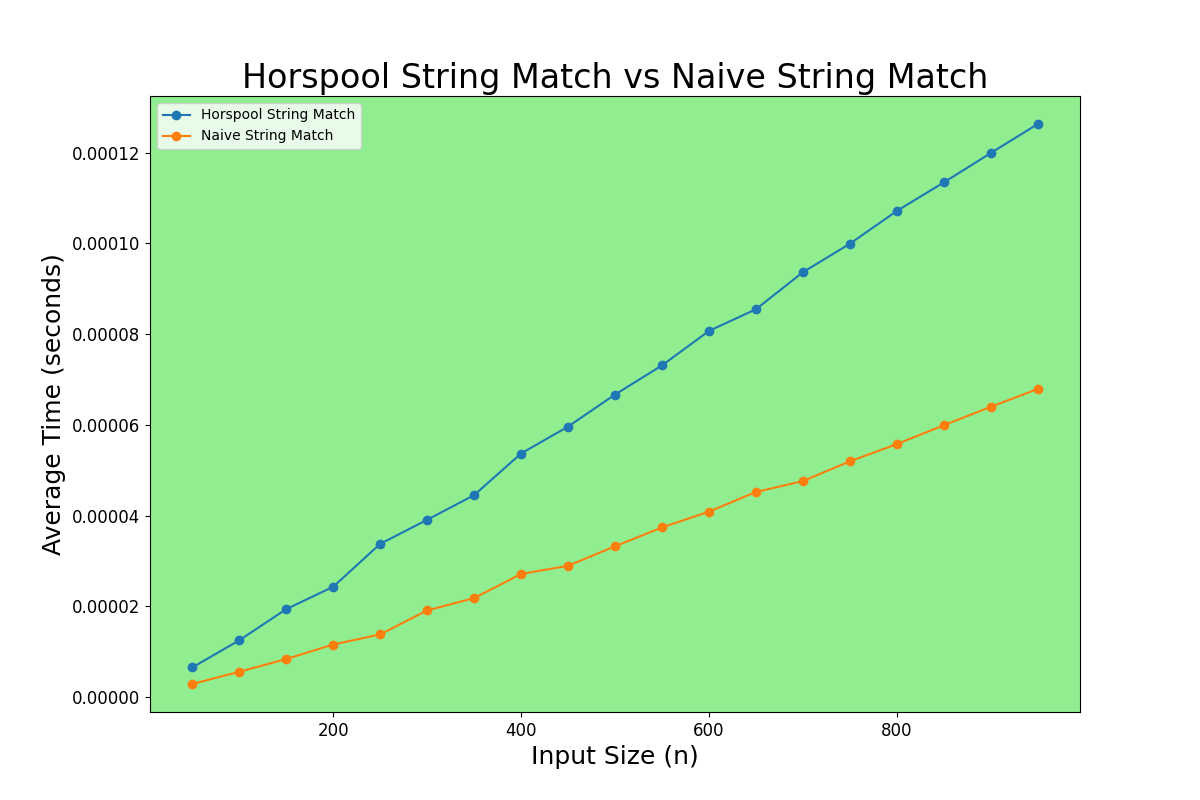
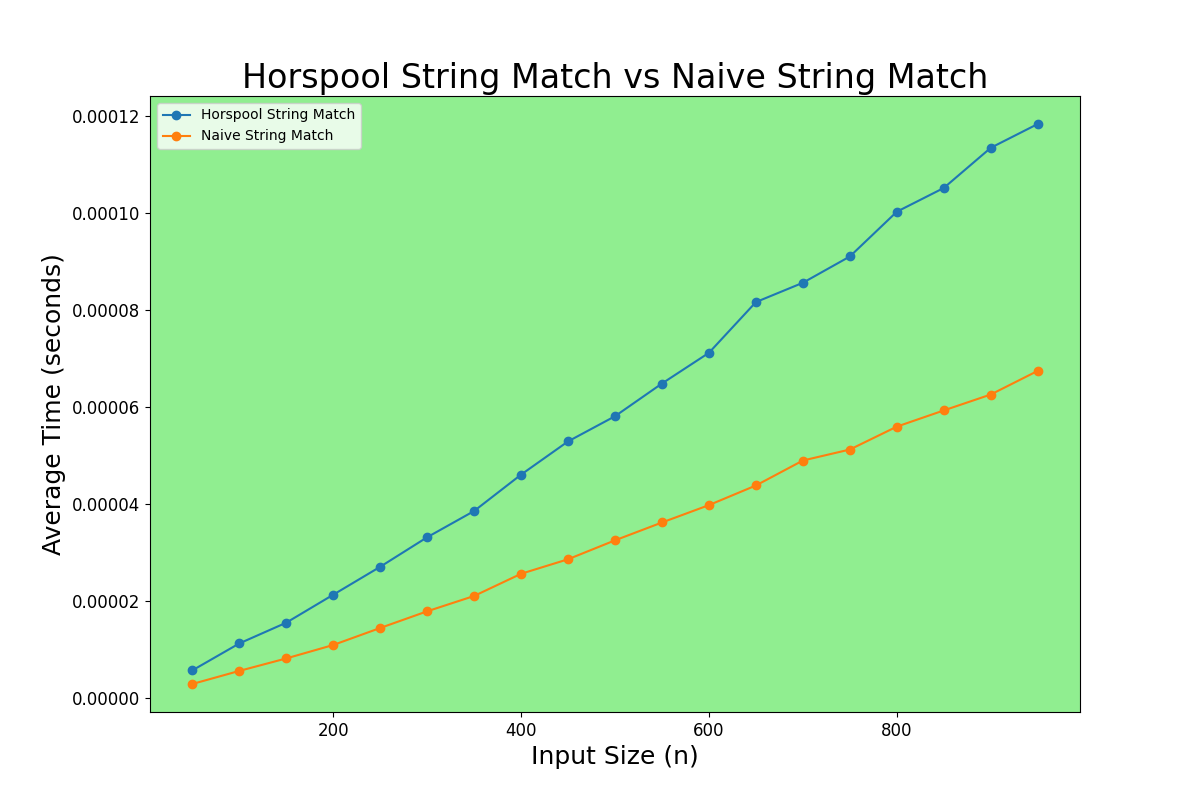
Removed bugs in Horspool algorithm

diff --git a/bruteforcestringmatch_vs_horspoolstringmatch/pystringmatch_analysis.py b/bruteforcestringmatch_vs_horspoolstringmatch/pystringmatch_analysis.py
@@ -21,7 +21,7 @@ def shift_table(pattern: str):
     for i in range(128):
         table.append(m)
     for j in range(m - 1):
-        table[ord(pattern[j]) - ord('0')] = m - 1 - j
+        table[ord(pattern[j])] = m - 1 - j
     return table
 
 def horspool_string_match(string: str, pattern: str, table: list):
@@ -35,7 +35,7 @@ def horspool_string_match(string: str, pattern: str, table: list):
         if j == m:
             return i - m + 1
         else:
-            j += table[ord(string[j]) - ord('0')]
+            i += table[ord(string[i])]
     return -1
 
 def generate_random_string(length, exclude_letters: str):
@@ -50,9 +50,9 @@ def generate_random_string(length, exclude_letters: str):
 
 def mean_time(match_func, iterations: int, length: int):
     total_time = 0.0
-    for i in range(iterations):        
-        pattern = 'AEIOUaeiou'
-        table = shift_table(pattern)
+    pattern = 'AEIOUaeiou' 
+    table = shift_table(pattern)
+    for i in range(iterations):                
         string = generate_random_string(length, pattern)
         start_time = time.perf_counter()
         match_func(string, pattern, table)
